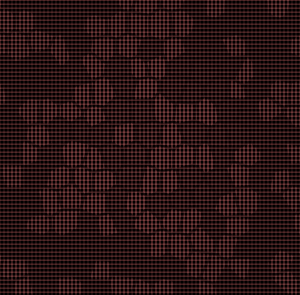
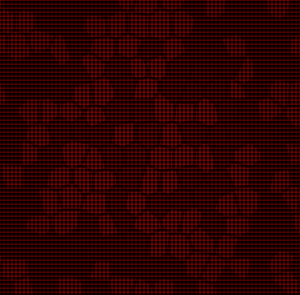
Site updated: 2015-03-19 15:26:16

diff --git a/css/style.css b/css/style.css
@@ -117,18 +117,40 @@ button::-moz-focus-inner {
   src: url("fonts/fontawesome-webfont.eot?v=#4.0.3");
   src: url("fonts/fontawesome-webfont.eot?#iefix&v=#4.0.3") format("embedded-opentype"), url("fonts/fontawesome-webfont.woff?v=#4.0.3") format("woff"), url("fonts/fontawesome-webfont.ttf?v=#4.0.3") format("truetype"), url("fonts/fontawesome-webfont.svg#fontawesomeregular?v=#4.0.3") format("svg");
 }
+@font-face {
+  font-family: 'yetiicon2';
+  font-weight: normal;
+  font-style: normal;
+  src: url("fonts/yetiicon2.eot?6z1m2n");
+  src: url("fonts/yetiicon2.eot?#iefix6z1m2n") format('embedded-opentype'), url("fonts/yetiicon2.woff?6z1m2n") format('woff'), url("fonts/yetiicon2.ttf?6z1m2n") format('truetype'), url("fonts/yetiicon2.svg?6z1m2n#yetiicon2") format('svg');
+}
+[class^="icon-"],
+[class*=" icon-"] {
+  font-family: 'yetiicon2';
+  speak: none;
+  font-style: normal;
+  font-weight: normal;
+  font-variant: normal;
+  text-transform: none;
+  line-height: 1;
+  -webkit-font-smoothing: antialiased;
+  -moz-osx-font-smoothing: grayscale;
+}
+.icon-yeti:before {
+  content: "\e600";
+}
 html,
 body,
 #container {
   height: 100%;
 }
 body {
-  background: #eee;
-  font: 14px "Helvetica Neue", Helvetica, Arial, sans-serif;
+  background: #fcfcfc;
+  font: 18px Vollkorn, Georgia, "Times New Roman", serif;
   -webkit-text-size-adjust: 100%;
 }
 .outer {
-  max-width: 1220px;
+  max-width: 980px;
   margin: 0 auto;
   padding: 0 20px;
 }
@@ -143,8 +165,8 @@ body {
 .inner {
   display: inline;
   float: left;
-  width: 98.3333333333333%;
-  margin: 0 0.8333333333333%;
+  width: 97.9166666666667%;
+  margin: 0 1.0416666666667%;
 }
 .left,
 .alignleft {
@@ -174,7 +196,7 @@ body {
   -ms-transition: 0.2s ease-out;
   transition: 0.2s ease-out;
   z-index: 1;
-  background: #eee;
+  background: #fcfcfc;
 }
 .mobile-nav-on #wrap {
   left: 280px;
@@ -183,8 +205,8 @@ body {
   #main {
     display: inline;
     float: left;
-    width: 73.3333333333333%;
-    margin: 0 0.8333333333333%;
+    width: 72.9166666666667%;
+    margin: 0 1.0416666666667%;
   }
 }
 .article-date,
@@ -309,7 +331,7 @@ body {
   font-weight: bold;
 }
 #header {
-  height: 300px;
+  height: 200px;
   position: relative;
   border-bottom: 1px solid #ddd;
 }
@@ -323,17 +345,9 @@ body {
 }
 #header:before {
   top: 0;
-  background: -webkit-linear-gradient(rgba(0,0,0,0.2), transparent);
-  background: -moz-linear-gradient(rgba(0,0,0,0.2), transparent);
-  background: -ms-linear-gradient(rgba(0,0,0,0.2), transparent);
-  background: linear-gradient(rgba(0,0,0,0.2), transparent);
 }
 #header:after {
   bottom: 0;
-  background: -webkit-linear-gradient(transparent, rgba(0,0,0,0.2));
-  background: -moz-linear-gradient(transparent, rgba(0,0,0,0.2));
-  background: -ms-linear-gradient(transparent, rgba(0,0,0,0.2));
-  background: linear-gradient(transparent, rgba(0,0,0,0.2));
 }
 #header-outer {
   height: 100%;
@@ -349,10 +363,7 @@ body {
   left: 0;
   width: 100%;
   height: 100%;
-  background: url("images/banner.jpg") center #000;
-  -webkit-background-size: cover;
-  -moz-background-size: cover;
-  background-size: cover;
+  background: url("images/old_mathematics.png") center #000;
   z-index: -1;
 }
 #header-title {
@@ -366,9 +377,9 @@ body {
 #logo,
 #subtitle {
   text-decoration: none;
-  color: #fff;
+  color: #39576c;
   font-weight: 300;
-  text-shadow: 0 1px 4px rgba(0,0,0,0.3);
+  text-shadow: 0 1px 4px rgba(0,0,0,0.2);
 }
 #logo {
   font-size: 40px;
@@ -390,7 +401,7 @@ body {
 .nav-icon,
 .main-nav-link {
   float: left;
-  color: #fff;
+  color: #39576c;
   opacity: 0.6;
   text-decoration: none;
   text-shadow: 0 1px rgba(0,0,0,0.2);
@@ -408,9 +419,9 @@ body {
 .nav-icon {
   font-family: FontAwesome;
   text-align: center;
-  font-size: 14px;
-  width: 14px;
-  height: 14px;
+  font-size: 18px;
+  width: 18px;
+  height: 18px;
   padding: 20px 15px;
   position: relative;
   cursor: pointer;
@@ -551,7 +562,7 @@ body {
   transition: color 0.2s;
 }
 a.article-title:hover {
-  color: #258fb8;
+  color: #31668b;
 }
 .article-entry {
   color: #555;
@@ -588,7 +599,7 @@ a.article-title:hover {
   margin: 1.1em 0;
 }
 .article-entry a {
-  color: #258fb8;
+  color: #31668b;
   text-decoration: none;
 }
 .article-entry a:hover {
@@ -625,13 +636,13 @@ a.article-title:hover {
   padding: 10px 0;
 }
 .article-entry blockquote {
-  font-family: Georgia, "Times New Roman", serif;
+  font-family: Vollkorn, Georgia, "Times New Roman", serif;
   font-size: 1.4em;
   margin: 1.6em 20px;
   text-align: center;
 }
 .article-entry blockquote footer {
-  font-size: 14px;
+  font-size: 18px;
   margin: 1.6em 0;
   font-family: "Helvetica Neue", Helvetica, Arial, sans-serif;
 }
@@ -682,16 +693,16 @@ a.article-title:hover {
   padding: 6px 15px;
   -webkit-border-radius: 15px;
   border-radius: 15px;
-  background: #eee;
+  background: #fcfcfc;
   color: #999;
   text-shadow: 0 1px #fff;
   text-decoration: none;
 }
 .article-more-link a:hover {
-  background: #258fb8;
+  background: #31668b;
   color: #fff;
   text-decoration: none;
-  text-shadow: 0 1px #1e7293;
+  text-shadow: 0 1px #27526f;
 }
 .article-footer {
   font-size: 0.85em;
@@ -852,7 +863,7 @@ a.article-title:hover {
   line-height: 36px;
 }
 .article-share-links {
-  background: #eee;
+  background: #fcfcfc;
 }
 .article-share-links:before,
 .article-share-links:after {
@@ -958,7 +969,7 @@ a.article-title:hover {
   margin: 50px 0;
 }
 #comments a {
-  color: #258fb8;
+  color: #31668b;
 }
 .archives-wrap {
   margin: 50px 0;
@@ -1014,7 +1025,7 @@ a.article-title:hover {
   line-height: 1.6em;
 }
 .archive-article-title:hover {
-  color: #258fb8;
+  color: #31668b;
 }
 .archive-article-footer {
   margin-top: 1em;
@@ -1089,7 +1100,7 @@ a.article-title:hover {
   color: #999;
 }
 #footer a {
-  color: #258fb8;
+  color: #31668b;
   text-decoration: none;
 }
 #footer a:hover {
@@ -1109,7 +1120,7 @@ a.article-title:hover {
   border-width: 1px 0;
   overflow: auto;
   color: #ccc;
-  line-height: 22.400000000000002px;
+  line-height: 28.8px;
 }
 .article-entry .highlight .gutter pre,
 .article-entry .gist .gist-file .gist-data .line-numbers {
@@ -1121,7 +1132,7 @@ a.article-title:hover {
   font-family: "Source Code Pro", Consolas, Monaco, Menlo, Consolas, monospace;
 }
 .article-entry code {
-  background: #eee;
+  background: #fcfcfc;
   text-shadow: 0 1px #fff;
   padding: 0 0.3em;
 }
@@ -1165,7 +1176,7 @@ a.article-title:hover {
   padding-right: 20px;
 }
 .article-entry .highlight .line {
-  height: 22.400000000000002px;
+  height: 28.8px;
 }
 .article-entry .gist {
   margin: 0 -20px;
@@ -1207,7 +1218,7 @@ a.article-title:hover {
   margin-left: 20px;
 }
 .article-entry .gist .gist-file .gist-meta a {
-  color: #258fb8;
+  color: #31668b;
   font-weight: normal;
 }
 .article-entry .gist .gist-file .gist-meta a:hover {
@@ -1296,8 +1307,8 @@ pre .javascript .function {
   #sidebar {
     display: inline;
     float: left;
-    width: 23.3333333333333%;
-    margin: 0 0.8333333333333%;
+    width: 22.9166666666667%;
+    margin: 0 1.0416666666667%;
   }
 }
 .widget-wrap {
@@ -1305,17 +1316,14 @@ pre .javascript .function {
 }
 .widget {
   color: #777;
-  text-shadow: 0 1px #fff;
-  background: #ddd;
-  -webkit-box-shadow: 0 -1px 4px #ccc inset;
-  box-shadow: 0 -1px 4px #ccc inset;
+  background: #f5f5f5;
   border: 1px solid #ccc;
   padding: 15px;
   -webkit-border-radius: 3px;
   border-radius: 3px;
 }
 .widget a {
-  color: #258fb8;
+  color: #31668b;
   text-decoration: none;
 }
 .widget a:hover {

diff --git a/2015/03/19/UX-with-the-Fam-Part-1/index.html b/2015/03/19/UX-with-the-Fam-Part-1/index.html
@@ -104,7 +104,7 @@ The IssueMy dad has had a Nexus 5 since it came out in 2013. He mostly uses it t
       
     </div>
     <footer class="article-footer">
-      <a data-url="http://dereksnow.github.io/blog/2015/03/19/UX-with-the-Fam-Part-1/" data-id="ci7dqrlcf00004drulmt4o9b4" class="article-share-link">Share</a>
+      <a data-url="http://dereksnow.github.io/blog/2015/03/19/UX-with-the-Fam-Part-1/" data-id="ci7glygcs00009nrup16o99b9" class="article-share-link">Share</a>
       
       
   <ul class="article-tag-list"><li class="article-tag-list-item"><a class="article-tag-list-link" href="/blog/tags/UX/">UX</a></li><li class="article-tag-list-item"><a class="article-tag-list-link" href="/blog/tags/android/">android</a></li></ul>

diff --git a/index.html b/index.html
@@ -103,7 +103,7 @@
       
     </div>
     <footer class="article-footer">
-      <a data-url="http://dereksnow.github.io/blog/2015/03/19/UX-with-the-Fam-Part-1/" data-id="ci7dqrlcf00004drulmt4o9b4" class="article-share-link">Share</a>
+      <a data-url="http://dereksnow.github.io/blog/2015/03/19/UX-with-the-Fam-Part-1/" data-id="ci7glygcs00009nrup16o99b9" class="article-share-link">Share</a>
       
       
   <ul class="article-tag-list"><li class="article-tag-list-item"><a class="article-tag-list-link" href="/blog/tags/UX/">UX</a></li><li class="article-tag-list-item"><a class="article-tag-list-link" href="/blog/tags/android/">android</a></li></ul>
